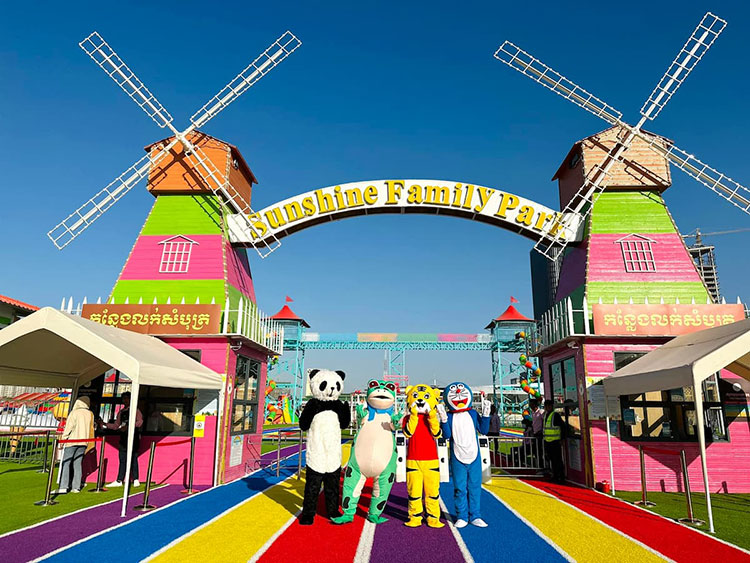
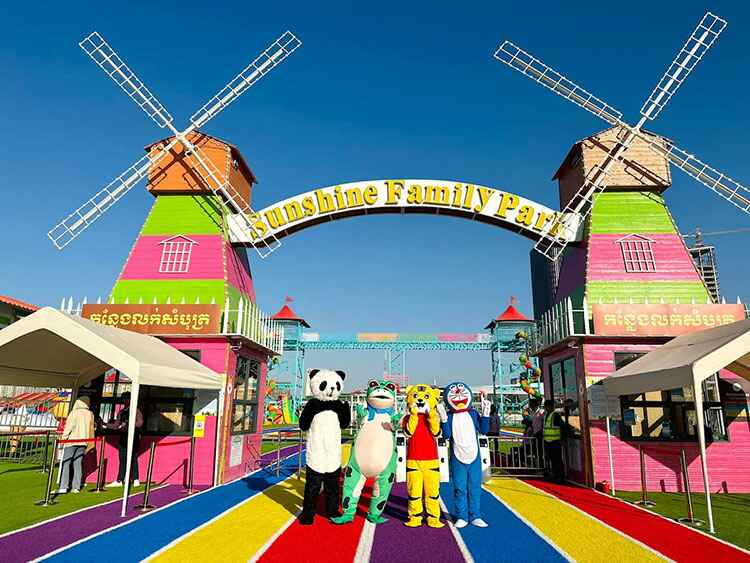
Compressed images for site.

diff --git a/README.md b/README.md
@@ -136,6 +136,9 @@ Ultimately decided on using Khmer Explorer for the website, as the I felt it sho
 - Git committed "Added another translation card."
 - Adjusted js for translate api.
 - Git committed "Adjusted js for translate api."
+- Compressed images for site.
+- Git committed "Compressed images for site."
+
 
 
 ### Credits
